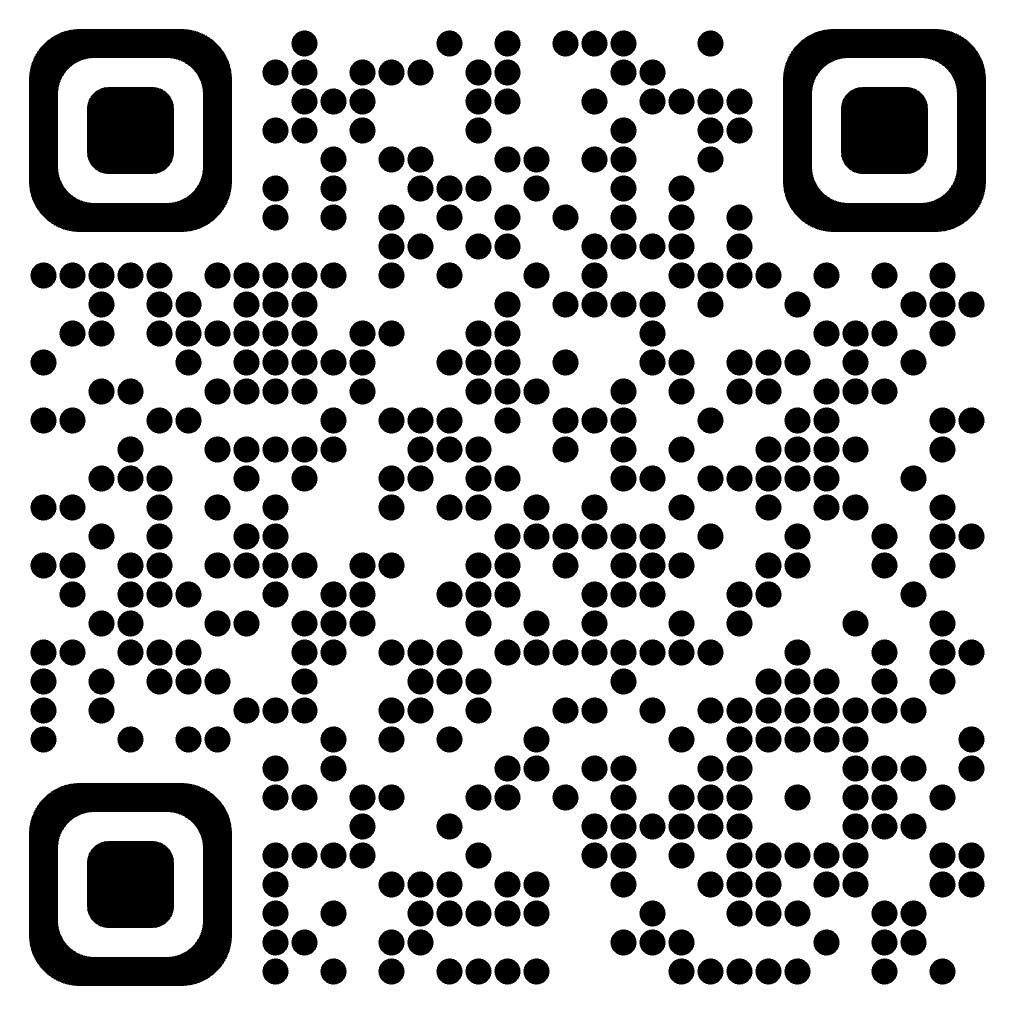
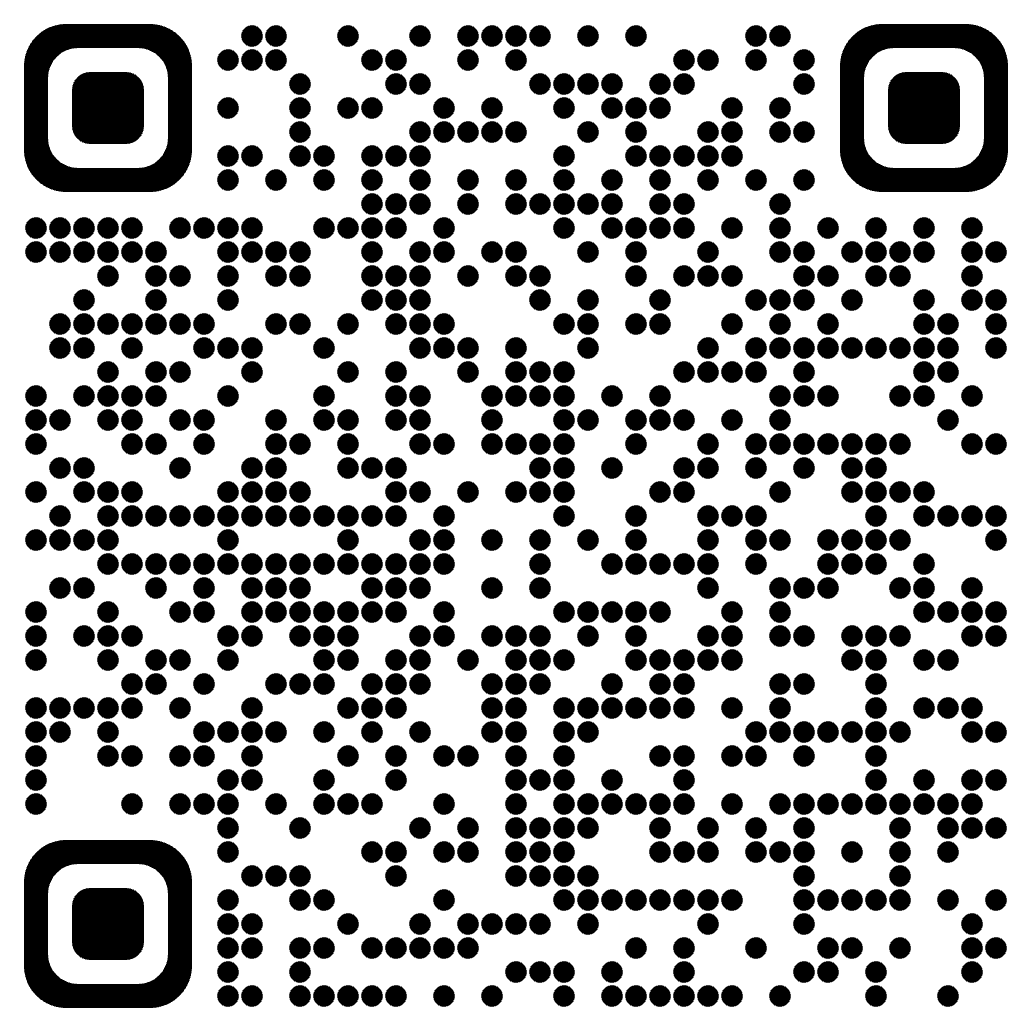
url変更

diff --git a/slides.md b/slides.md
@@ -53,7 +53,7 @@ layout: two-cols-header
 
 <img src="/github_code.png" style="height:300px;"/>
 
-<a href="https://github.com/sasasaiki/android_compose_daily_scheduler">sasasaiki/android_compose_daily_scheduler</a>
+<a href="https://github.com/sasasaiki/android_compose_daily_scheduler/blob/main/app/src/main/java/app/saiki/dailyscheduler/DailySchedule.kt">sasasaiki/android_compose_daily_scheduler</a>
 
 
 
